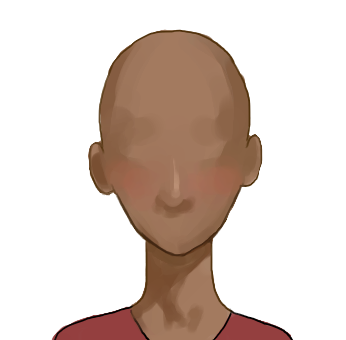
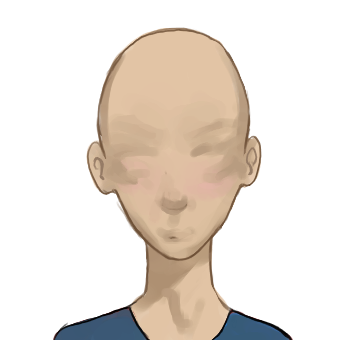
feat: selector de piel

diff --git a/public_html/index.html b/public_html/index.html
@@ -53,17 +53,17 @@
                             <span id="nombre"></span>
                         </div>
                         <div class="col-xs-10 container-de-avatar__caja"  ondrop="drop(event)" ondragover="allowDrop(event)">
-                            <img  class="avatar avatar__cabeza" src="assets/images/chica/cabezas/cabeza-chica-3.png">
+                            <img  class="avatar avatar__cabeza" src="assets/images/chica/cabezas/cabeza-chica-1.png">
                         </div>
                         <div class="col-xs-1">
                             <br>
-                            <button class="btn btn-lg piel piel__suntan-1 piel--active"></button>
+                            <button onclick="cambiarPiel(this)" class="btn btn-lg piel piel__suntan-1 piel--active"></button>
                             <br>
-                            <button class="btn btn-lg piel piel__suntan-2"></button>
+                            <button onclick="cambiarPiel(this)" class="btn btn-lg piel piel__suntan-2"></button>
                             <br>
-                            <button class="btn btn-lg piel piel__suntan-3"></button>
+                            <button onclick="cambiarPiel(this)" class="btn btn-lg piel piel__suntan-3"></button>
                             <br>
-                            <button class="btn btn-lg piel piel__suntan-4"></button>
+                            <button onclick="cambiarPiel(this)" class="btn btn-lg piel piel__suntan-4"></button>
                         </div>
                         <div class="col-xs-12 container-de-generos">
                             <button class="btn btn-sm genero genero--masculino">
@@ -95,7 +95,7 @@
                     </div>
                     <div class="modal-footer">
                         <button type="button" class="btn btn-default" data-dismiss="modal">Cerrar</button>
-                        <button type="button" id="boton-jugar" class="btn btn-primary">Siguiente <i class="fa fa-arrow-circle-o-right"></i></button>
+                        <button disabled="" type="button" id="boton-jugar" class="btn btn-primary">Siguiente <i class="fa fa-arrow-circle-o-right"></i></button>
                     </div>
                 </div><!-- /.modal-content -->
             </div><!-- /.modal-dialog -->
@@ -103,6 +103,7 @@
         <script src="assets/vendor/jquery-3.1.1.min.js" type="text/javascript"></script>
         <script src="assets/vendor/bootstrap-3.3.7/js/bootstrap.min.js" type="text/javascript"></script>
         <script src="assets/js/init.js" type="text/javascript"></script>
+        <script src="assets/js/controlador/piel.controller.js" type="text/javascript"></script>
         <script src="assets/js/controlador/estados.controller.js" type="text/javascript"></script>
         <!-- HTML5 shim and Respond.js for IE8 support of HTML5 elements and media queries -->
         <!-- WARNING: Respond.js doesn't work if you view the page via file:// -->

diff --git a/public_html/assets/js/init.js b/public_html/assets/js/init.js
@@ -1,22 +1,29 @@
 var playerName = "Avatar";
 var app = this;
-
+var genero = "chica";
 $(document).ready(function () {
 
     app.bootstrap();
 
     $('#start-button').on('click', function () {
         $('#modal').modal('show');
-        
+
     });
-    
-    $('#boton-jugar').on('click', function(){
+
+    $('#boton-jugar').on('click', function () {
         playerName = $('#input-nombre').val();
         $('#modal').modal('hide');
         app.__init();
     });
 
-
+    $('#input-nombre').on('change', function () {
+        var valor = $(this).val();
+        if (valor.length > 0) {
+            $('#boton-jugar').removeAttr('disabled');
+        } else {
+            $('#boton-jugar').prop("disabled", true);
+        }
+    });
 });
 
 __init = function () {
@@ -34,15 +41,14 @@ bootstrap = function () {
 
     tabs();
 
-
     function tabs() {
         $('#tabs a').click(function (e) {
             e.preventDefault();
             $(this).tab('show');
         });
     }
-    
- 
+
+
 };
 
 

diff --git a/public_html/assets/js/controlador/piel.controller.js b/public_html/assets/js/controlador/piel.controller.js
@@ -1,0 +1,8 @@
+cambiarPiel = function(botonPiel){
+ var pielSeleccionada = botonPiel.className.split("piel__suntan-")[1].split(" ")[0];
+ $('.piel').removeClass('piel--active');
+ $('.piel__suntan-' + pielSeleccionada).addClass('piel--active');
+ var cabezaEnAvatar = $('.avatar__cabeza').attr('src');
+ var srcCabeza = cabezaEnAvatar.split("cabeza-" + app.genero + "-")[0] + "cabeza-" + app.genero + "-" + pielSeleccionada + ".png";
+ $('.avatar__cabeza').prop('src', srcCabeza);
+};
